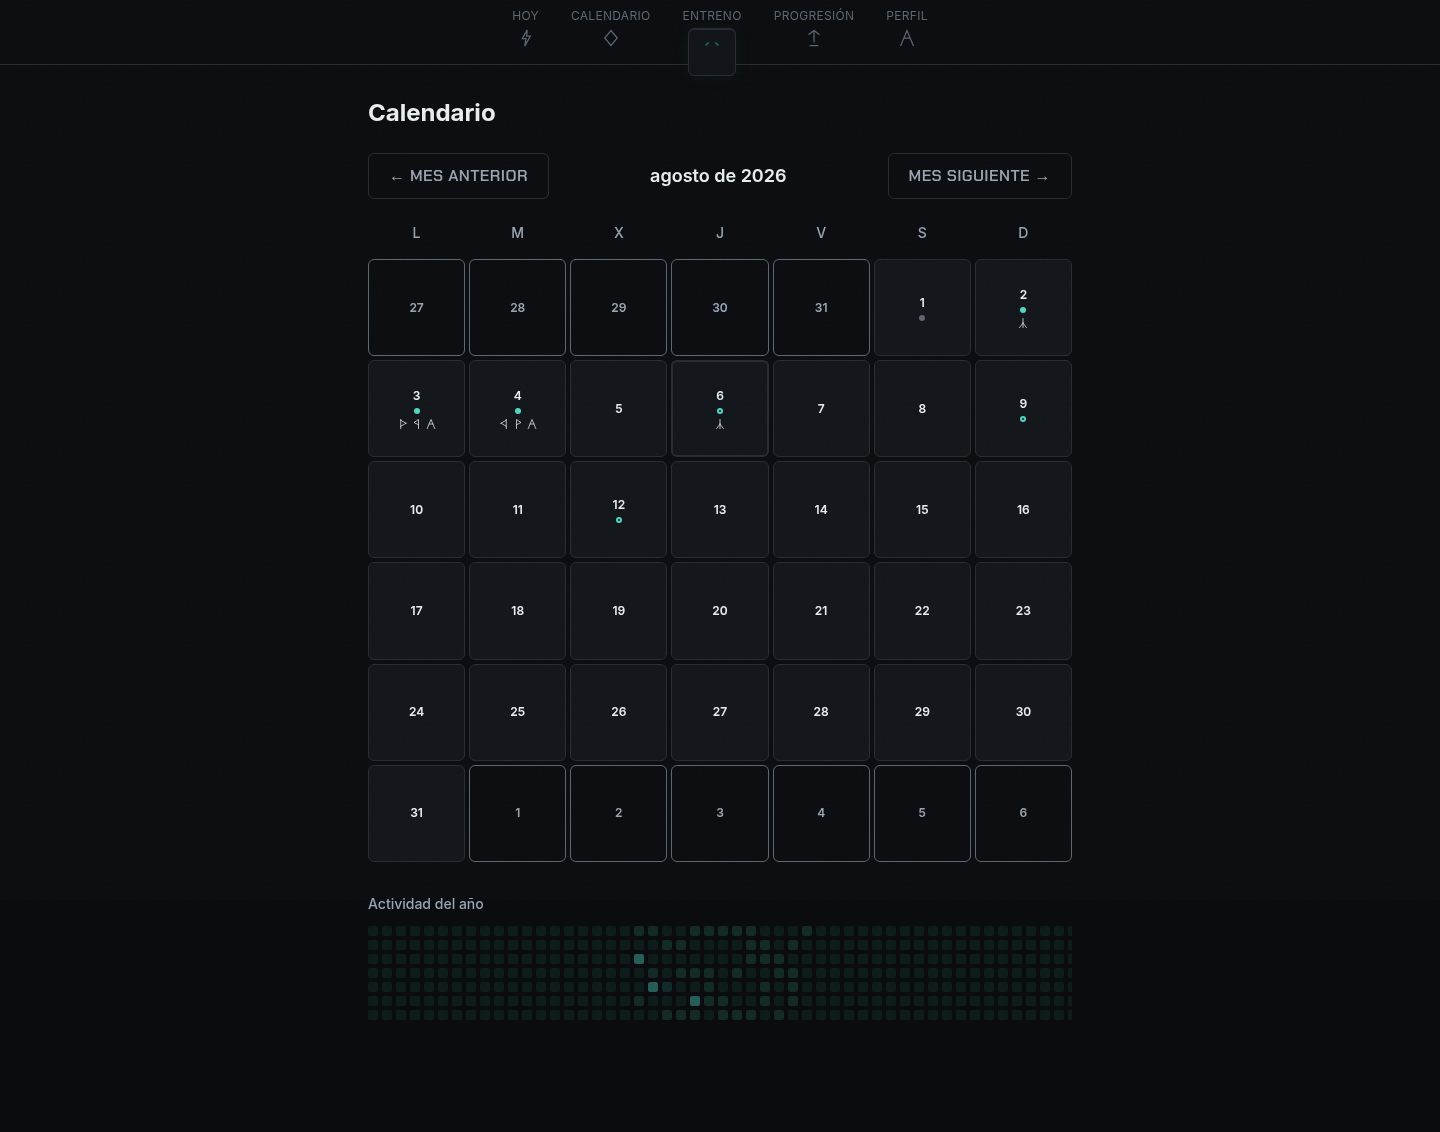
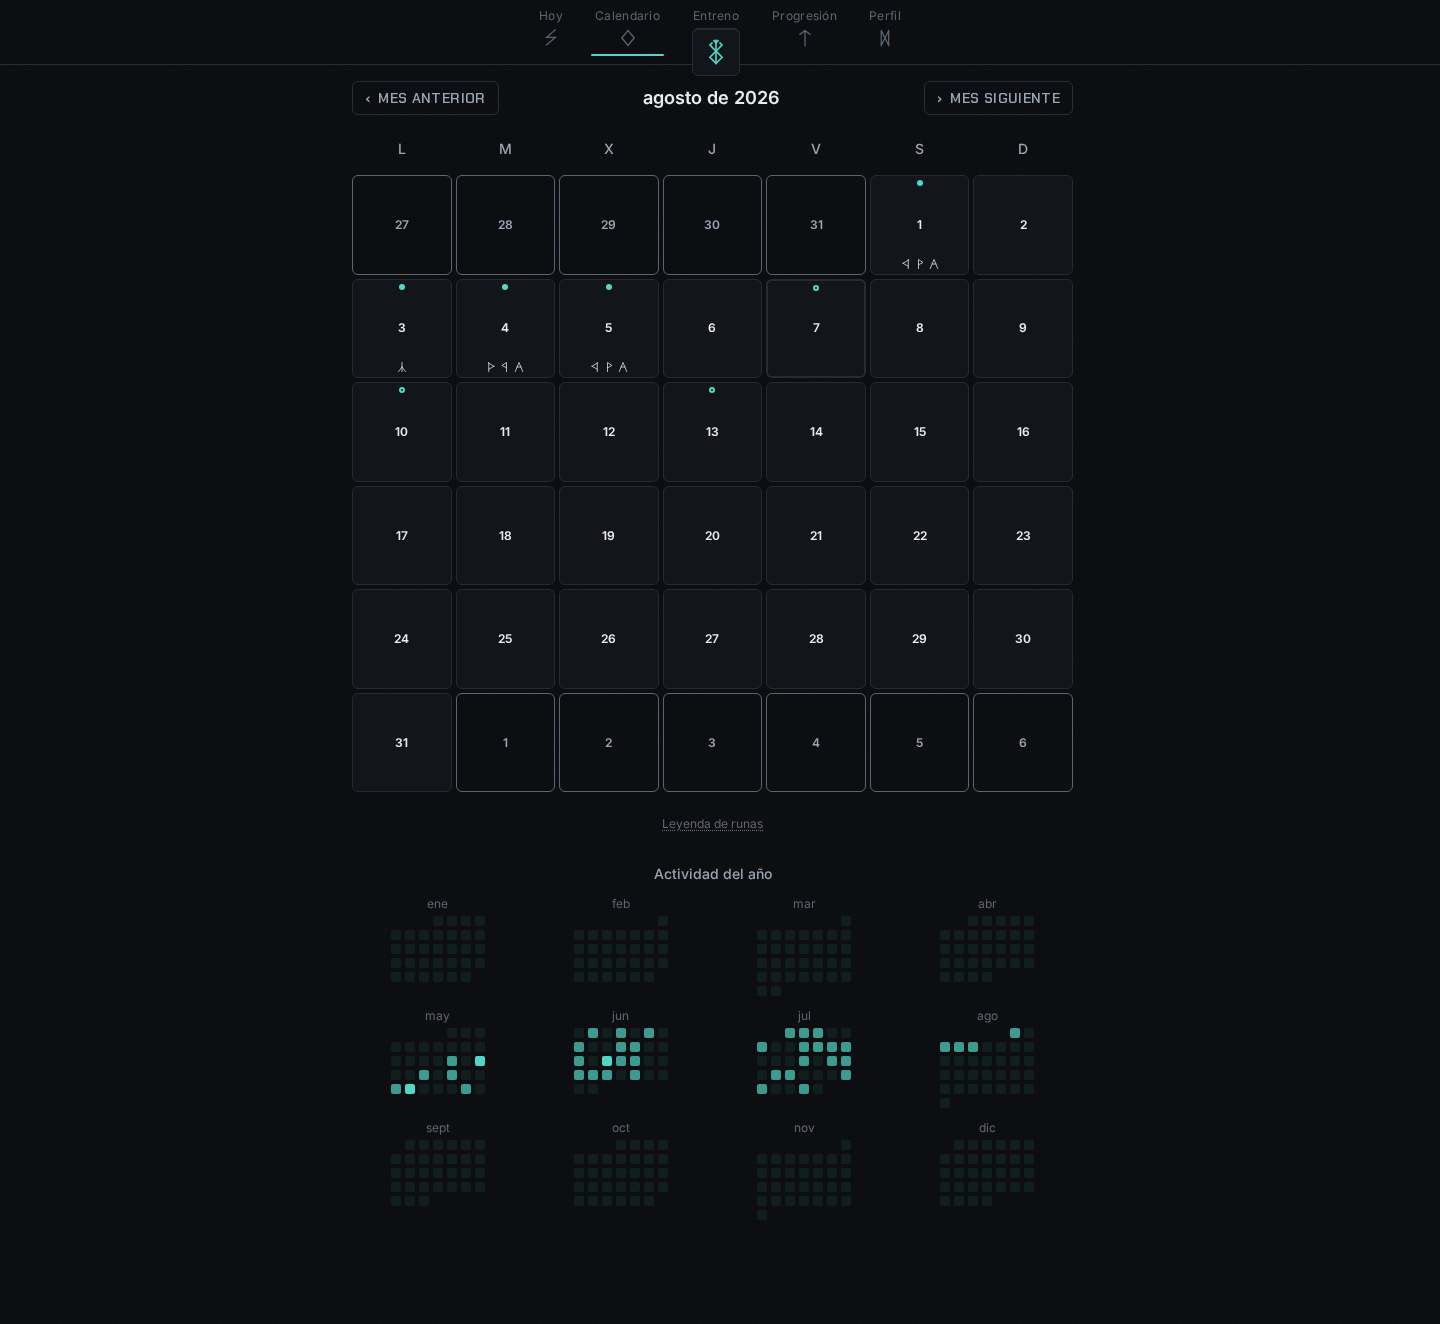
docs: regenerate README screenshots for v0.3.1 UI
docs/screenshots/ still showed the v0.1.0 layout. Recaptured all six
against a seeded ephemeral instance (ES locale, admin/admin1234):
today, calendar (with the 3x4 heatmap), the progress view's stats
tab, and a live workout on the redesigned compact-cards + drawer
flow, desktop and mobile. Updated image alt text and the Features
section to cover what's shipped since 0.1.0 (retroactive workouts,
lifetime stats, custom form pickers, admin backup/restore, the full
Elder Futhark rune set).

Claude-Session: https://claude.ai/code/session_01HkD1mXnsiQdj6TT1qY1v7x

diff --git a/README.md b/README.md
@@ -13,9 +13,9 @@ Self-hosted workout tracker. Plan it, log it, watch the runes light up.
 
 <table>
   <tr>
-    <td><img src="docs/screenshots/desktop-calendar.png" width="100%" alt="Calendar view with scheduled sessions and the yearly activity heatmap"></td>
-    <td><img src="docs/screenshots/desktop-workout.png" width="100%" alt="Live workout logging with muscle tags and set entry"></td>
-    <td><img src="docs/screenshots/desktop-progress.png" width="100%" alt="Progress view with a per-exercise trend chart, PR list and muscle distribution"></td>
+    <td><img src="docs/screenshots/desktop-calendar.png" width="100%" alt="Calendar view with scheduled sessions, rune-tagged training days and the yearly activity heatmap"></td>
+    <td><img src="docs/screenshots/desktop-workout.png" width="100%" alt="Live workout logging with compact exercise cards, muscle tags and set entry"></td>
+    <td><img src="docs/screenshots/desktop-progress.png" width="100%" alt="Progress view's lifetime stats tab: workouts, hours, volume, PR count and longest streak"></td>
   </tr>
 </table>
 
@@ -29,9 +29,12 @@ Self-hosted workout tracker. Plan it, log it, watch the runes light up.
 ## Features
 
 - **Planning calendar** — schedule sessions ahead of time and see them alongside what you actually trained.
-- **Per-muscle-group logging with runes** — every muscle group gets its own rune glyph, tagged live as you log a session.
+- **Retroactive workouts** — log a past session straight from the calendar, or edit any past workout's sets, exercises, tags, feeling, note and even its date and time, with personal records dated correctly.
+- **Per-muscle-group logging with runes** — every muscle group and routine carries its own glyph from a full Elder Futhark set, tagged live as you log a session.
 - **Live PR detection** — top weight, volume and estimated 1RM records are flagged the moment you beat them, mid-set.
-- **Progress analytics** — trend charts per exercise, a full PR history, muscle-group distribution and body-metric tracking.
+- **Progress analytics** — a lifetime stats tab (hours, volume, streaks and more), trend charts per exercise, a full PR history, muscle-group distribution and body-metric tracking.
+- **Custom, accessible form pickers** — a filterable select, a time field and a mini-calendar date field replace every native input, all fully keyboard-operable.
+- **Admin backup and restore** — export a consistent snapshot of the database as a zip with an integrity manifest, and restore it atomically with a safety fallback.
 - **Multi-user read sharing** — grant another account read access to your training so a coach or training partner can follow along.
 - **Invite-only signup** — no public registration; new accounts are created from single-use invite links issued by an admin.
 - **PWA** — installable, works offline for the shell, no app store required.
